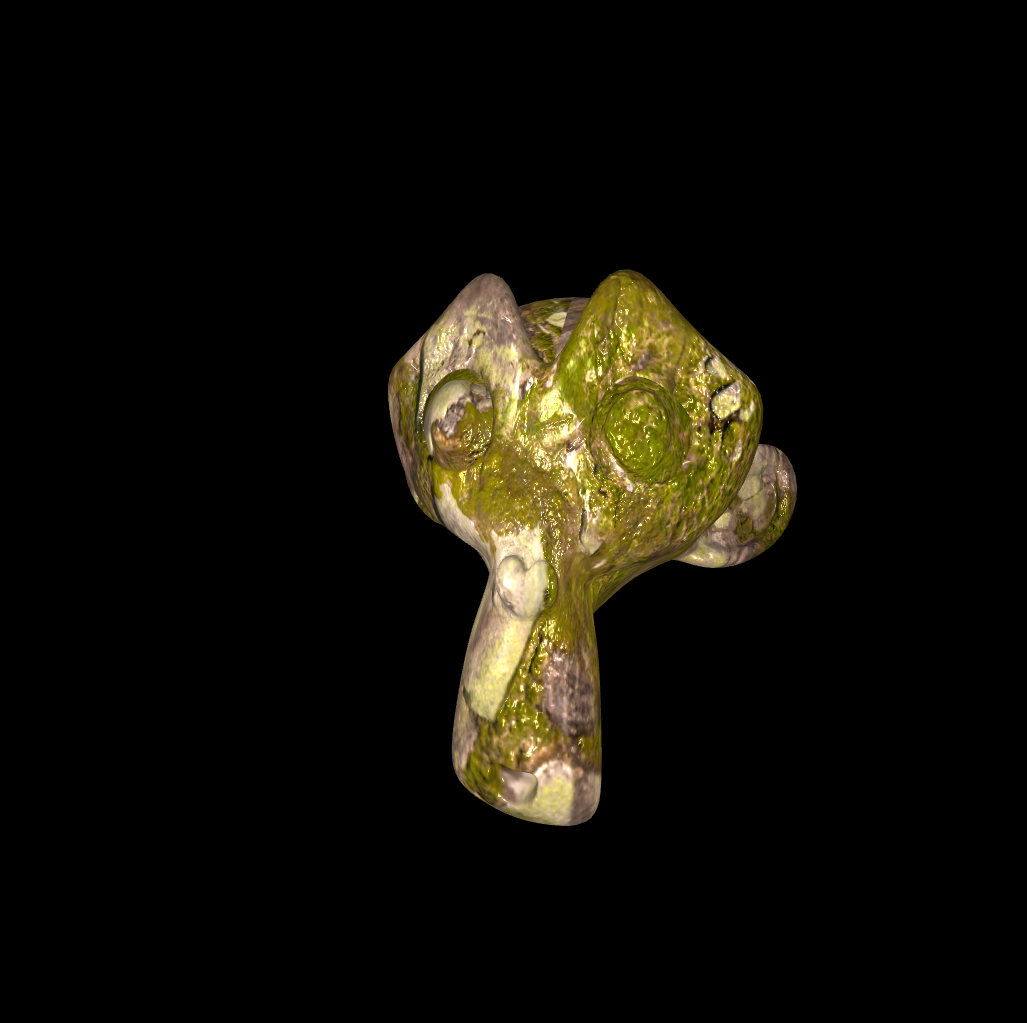
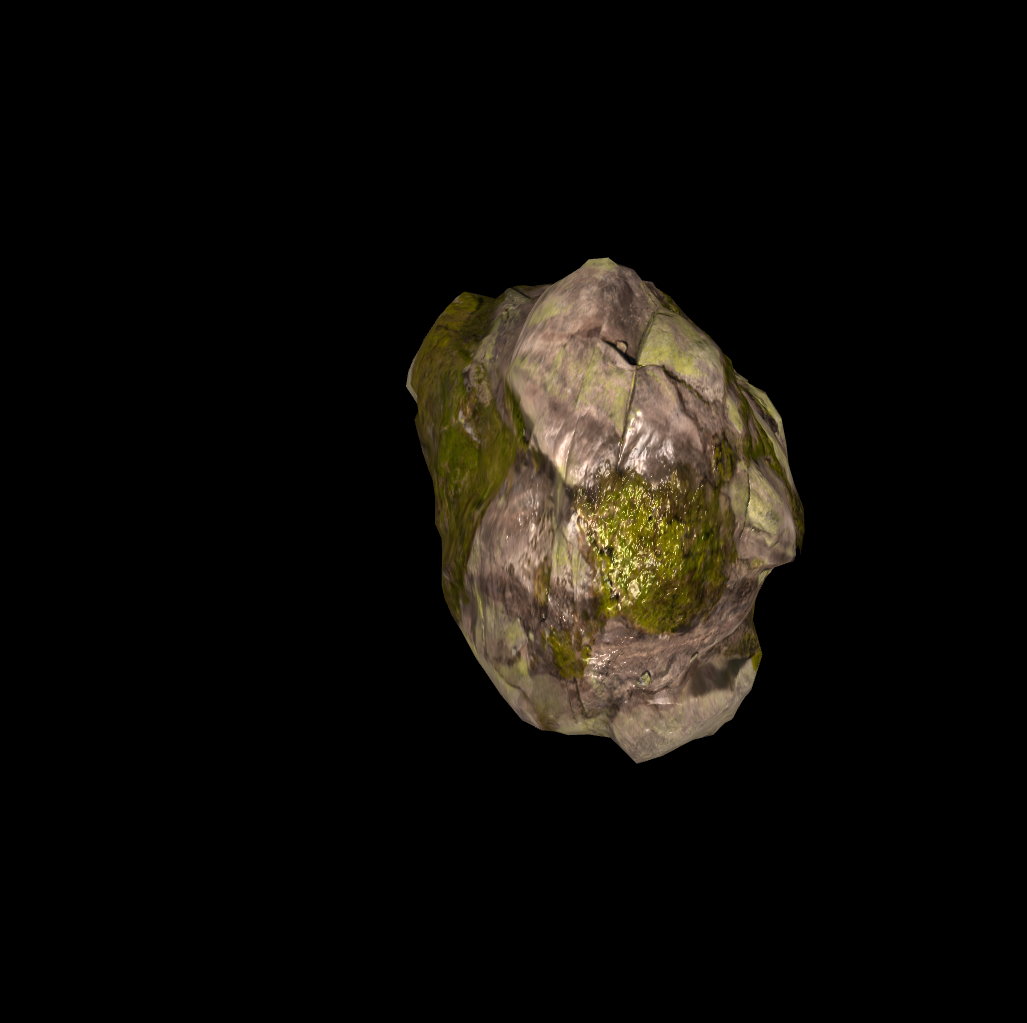
Ambient occlusion and displacement maps

Changed region(s): [[0.3739, 0.2424, 0.779, 0.8182]]

diff --git a/src/main.cpp b/src/main.cpp
@@ -21,7 +21,7 @@ glm::vec3 cameraFront = {0, 0, 0};
 glm::vec3 cameraPos = {0, 0, 1};
 glm::mat4x4 view = glm::translate(glm::mat4(1.0f), glm::vec3(0.0f, 0.0f, -3.0f));
 
-std::vector<glm::vec3> lights = {{0.0, 0.0, -0.5}};
+std::vector<glm::vec3> lights = {{0.0, 0.0, -0.1}};
 
 void setUniforms(Shader shader){
     shader.setUniform(lights, "lights");
@@ -165,10 +165,34 @@ int main()
     glGenerateMipmap(GL_TEXTURE_2D);
     stbi_image_free(data3);
 
-    std::vector<Texture> textures = {{texture, TextureType::diffuse}, {texture2, TextureType::specular}, {texture3, TextureType::normal}};
+    unsigned char* data4 = stbi_load("rocks/aerial_rocks_02_disp_1k.png", &width, &height, &nrChannels, 4);
+    unsigned int texture4;
+    glGenTextures(1, &texture4);
+    glBindTexture(GL_TEXTURE_2D, texture4);
+    glTexParameteri(GL_TEXTURE_2D, GL_TEXTURE_WRAP_S, GL_REPEAT);	
+    glTexParameteri(GL_TEXTURE_2D, GL_TEXTURE_WRAP_T, GL_REPEAT);
+    glTexParameteri(GL_TEXTURE_2D, GL_TEXTURE_MIN_FILTER, GL_LINEAR_MIPMAP_LINEAR);
+    glTexParameteri(GL_TEXTURE_2D, GL_TEXTURE_MAG_FILTER, GL_LINEAR);
+    glTexImage2D(GL_TEXTURE_2D, 0, GL_RGB, width, height, 0, GL_RGBA, GL_UNSIGNED_BYTE, data4);
+    glGenerateMipmap(GL_TEXTURE_2D);
+    stbi_image_free(data4);
+
+    unsigned char* data5 = stbi_load("rocks/aerial_rocks_02_ao_1k.jpg", &width, &height, &nrChannels, 4);
+    unsigned int texture5;
+    glGenTextures(1, &texture5);
+    glBindTexture(GL_TEXTURE_2D, texture5);
+    glTexParameteri(GL_TEXTURE_2D, GL_TEXTURE_WRAP_S, GL_REPEAT);	
+    glTexParameteri(GL_TEXTURE_2D, GL_TEXTURE_WRAP_T, GL_REPEAT);
+    glTexParameteri(GL_TEXTURE_2D, GL_TEXTURE_MIN_FILTER, GL_LINEAR_MIPMAP_LINEAR);
+    glTexParameteri(GL_TEXTURE_2D, GL_TEXTURE_MAG_FILTER, GL_LINEAR);
+    glTexImage2D(GL_TEXTURE_2D, 0, GL_RGB, width, height, 0, GL_RGBA, GL_UNSIGNED_BYTE, data5);
+    glGenerateMipmap(GL_TEXTURE_2D);
+    stbi_image_free(data5);
+
+    std::vector<Texture> textures = {{texture, TextureType::diffuse}, {texture4, TextureType::diffuse}, {texture5, TextureType::diffuse}, {texture2, TextureType::specular}, {texture3, TextureType::normal}};
 
     std::shared_ptr<Shader> light(new Shader("light.vert", "light.frag", setUniforms));
-    std::shared_ptr<Mesh> obj(new Mesh("monke.obj", light, textures));
+    std::shared_ptr<Mesh> obj(new Mesh("sphere.obj", light, textures));
 
     glEnable(GL_DEPTH_TEST);
     glEnable(GL_MULTISAMPLE);

diff --git a/src/mesh.cpp b/src/mesh.cpp
@@ -124,25 +124,17 @@ void Mesh::draw(){
     for(int i=0 ; i < textures.size(); i++){
         glActiveTexture(GL_TEXTURE0+i);
         glBindTexture(GL_TEXTURE_2D, textures[i].id);
-        switch (textures[i].type)
-        {
-        case TextureType::diffuse:
+        if(textures[i].type == TextureType::diffuse){
             shader->setUniform(i, "DIFFUSE_" + std::to_string(diff));
             diff++;
-            break;
-        case TextureType::specular:
+        }
+        if(textures[i].type == TextureType::specular){
             shader->setUniform(i, "SPECULAR_" + std::to_string(spec));
             spec++;
-            break;
-        case TextureType::normal:
+        }
+        if(textures[i].type == TextureType::normal){
             shader->setUniform(i, "NORMAL_" + std::to_string(norm));
-            norm ++;
-            break;
-        
-        default:
-            shader->setUniform(i, "DIFFUSE_" + std::to_string(diff));
-            diff++;
-            break;
+            norm++;
         }
     }
     shader->setUniforms(*shader);
@@ -158,9 +150,7 @@ void Mesh::draw(){
 void Mesh::addTexture(std::string filename, TextureType type){
     Texture texture;
     texture.type = type;
-    std::cout << texture.id << "\n";
     glGenTextures(1, &texture.id);
-    std::cout << texture.id << "\n";
     glBindTexture(GL_TEXTURE_2D, texture.type);
     // glTexParameteri(GL_TEXTURE_2D, GL_TEXTURE_WRAP_S, GL_REPEAT);	
     // glTexParameteri(GL_TEXTURE_2D, GL_TEXTURE_WRAP_T, GL_REPEAT);
@@ -184,9 +174,6 @@ void Mesh::addTexture(std::string filename, TextureType type){
 
 Mesh::~Mesh()
 {
-    // for(Texture texture : textures){
-    //     glDeleteTextures(1, &texture.id);
-    // }
     glDeleteBuffers(1, &VBO);
     glDeleteBuffers(1, &EBO);
     glDeleteVertexArrays(1, &VAO);
